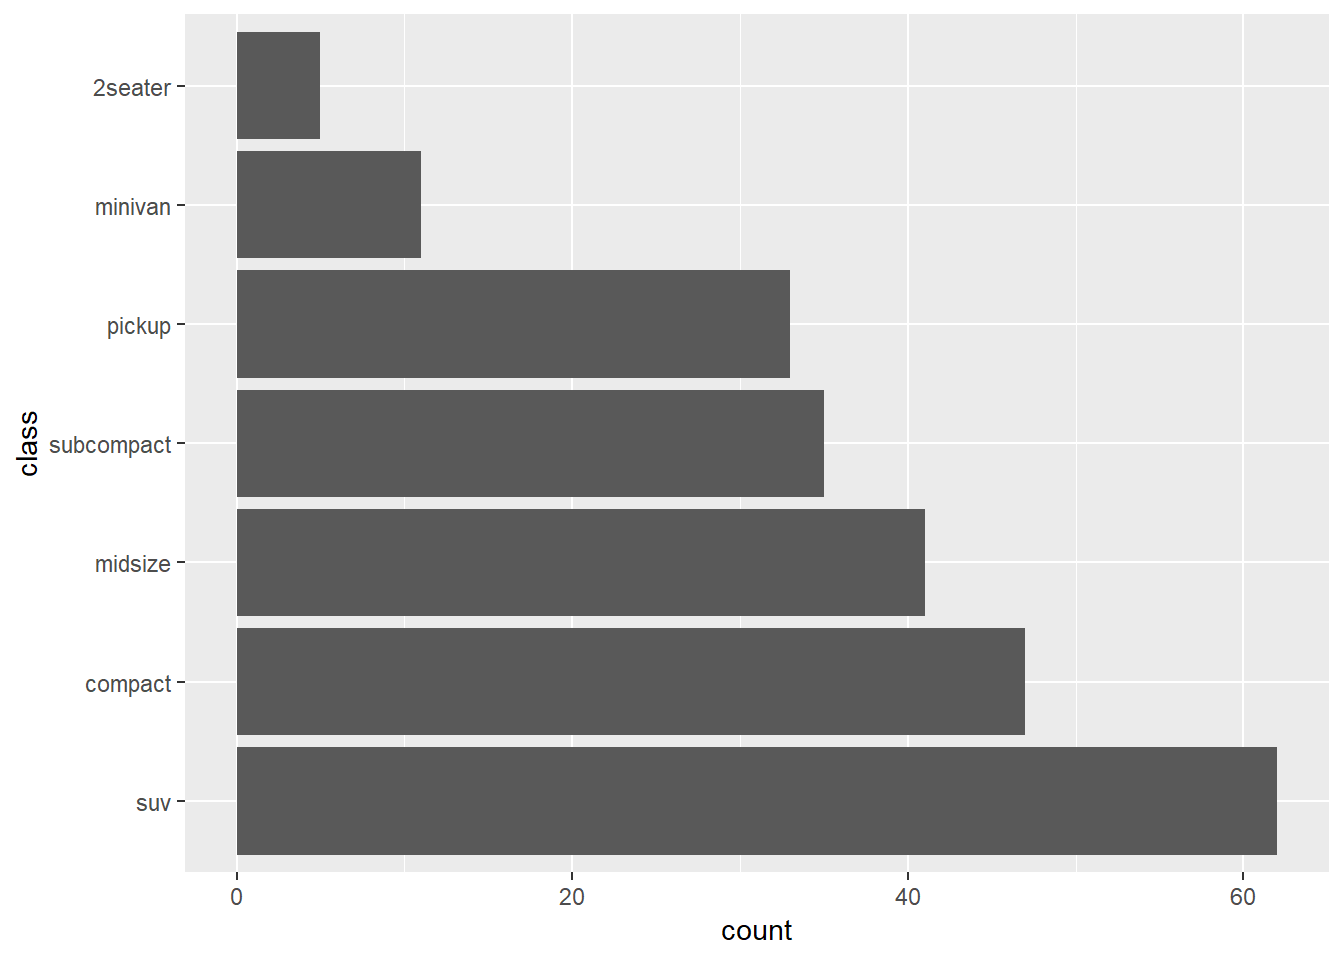
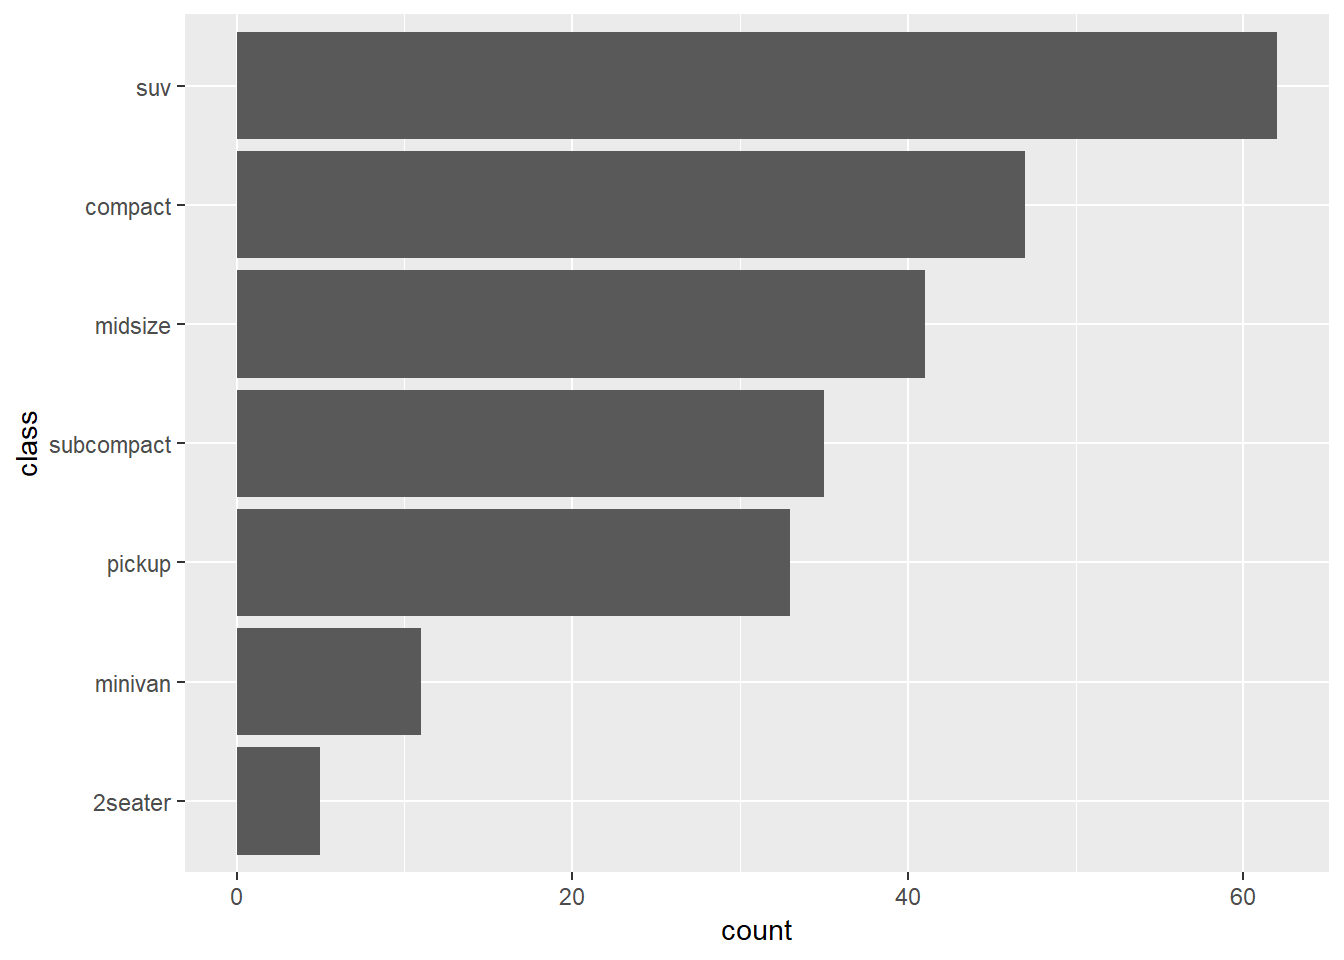
fix code

diff --git a/index.html b/index.html
@@ -540,13 +540,16 @@ hwy_plot</code></pre></div>
 <h3>Flip</h3>
 <p>default</p>
 <div class="sourceCode"><pre class="sourceCode r"><code class="sourceCode r">mpg <span class="op">%&gt;%</span><span class="st"> </span>
-<span class="st">  </span><span class="kw">mutate</span>(<span class="dt">class =</span> class <span class="op">%&gt;%</span><span class="st"> </span><span class="kw">fct_infreq</span>() <span class="op">%&gt;%</span><span class="st"> </span><span class="kw">fct_rev</span>()) <span class="op">%&gt;%</span><span class="st"> </span>
+<span class="st">  </span><span class="kw">mutate</span>(<span class="dt">class =</span> class <span class="op">%&gt;%</span><span class="st"> </span>
+<span class="st">           </span><span class="kw">fct_infreq</span>()) <span class="op">%&gt;%</span><span class="st"> </span>
 <span class="st">  </span><span class="kw">ggplot</span>(<span class="kw">aes</span>(class)) <span class="op">+</span>
 <span class="st">  </span><span class="kw">geom_bar</span>() </code></pre></div>
 <p><img src="index_files/figure-html/dynamic%20factor-1.png" width="672" /></p>
 <p><code>coord_flip()</code></p>
 <div class="sourceCode"><pre class="sourceCode r"><code class="sourceCode r">mpg <span class="op">%&gt;%</span><span class="st"> </span>
-<span class="st">  </span><span class="kw">mutate</span>(<span class="dt">class =</span> class <span class="op">%&gt;%</span><span class="st"> </span><span class="kw">fct_infreq</span>()) <span class="op">%&gt;%</span><span class="st"> </span>
+<span class="st">  </span><span class="kw">mutate</span>(<span class="dt">class =</span> class <span class="op">%&gt;%</span><span class="st"> </span>
+<span class="st">           </span><span class="kw">fct_infreq</span>() <span class="op">%&gt;%</span><span class="st"> </span>
+<span class="st">           </span><span class="kw">fct_rev</span>()) <span class="op">%&gt;%</span><span class="st"> </span>
 <span class="st">  </span><span class="kw">ggplot</span>(<span class="kw">aes</span>(class)) <span class="op">+</span>
 <span class="st">  </span><span class="kw">geom_bar</span>() <span class="op">+</span><span class="st"> </span><span class="kw">coord_flip</span>()</code></pre></div>
 <p><img src="index_files/figure-html/coordinate%20flip-1.png" width="672" /></p>
@@ -772,7 +775,7 @@ triangle &lt;-<span class="st"> </span><span class="kw">cbind</span>(triangle, <
 ##  language (EN)                        
 ##  collate  English_United States.1252  
 ##  tz       America/New_York            
-##  date     2018-09-20</code></pre>
+##  date     2018-09-21</code></pre>
 <pre><code>## Packages -----------------------------------------------------------------</code></pre>
 <pre><code>##  package      * version date       source        
 ##  assertthat     0.2.0   2017-04-11 CRAN (R 3.5.1)

diff --git a/follow_up_from_intro.html b/follow_up_from_intro.html
@@ -11,7 +11,7 @@
 
 <meta name="author" content="John Little" />
 
-<meta name="date" content="2018-09-19" />
+<meta name="date" content="2018-09-21" />
 
 <title>Follow-up from Intro</title>
 
@@ -250,7 +250,7 @@ div.tocify {
 
 <h1 class="title toc-ignore">Follow-up from Intro</h1>
 <h4 class="author"><em>John Little</em></h4>
-<h4 class="date"><em>2018-09-19</em></h4>
+<h4 class="date"><em>2018-09-21</em></h4>
 
 </div>
 
@@ -282,7 +282,7 @@ div.tocify {
 <tbody>
 <tr class="odd">
 <td><strong>read_csv</strong></td>
-<td><a href="https://readr.tidyverse.org/index.html">reader</a> (<strong>tidyverse</strong>)</td>
+<td><a href="https://readr.tidyverse.org/index.html">readr</a> (<strong>tidyverse</strong>)</td>
 <td>Tibble</td>
 <td>character</td>
 <td>dates, times, currencies, percentages, …</td>
